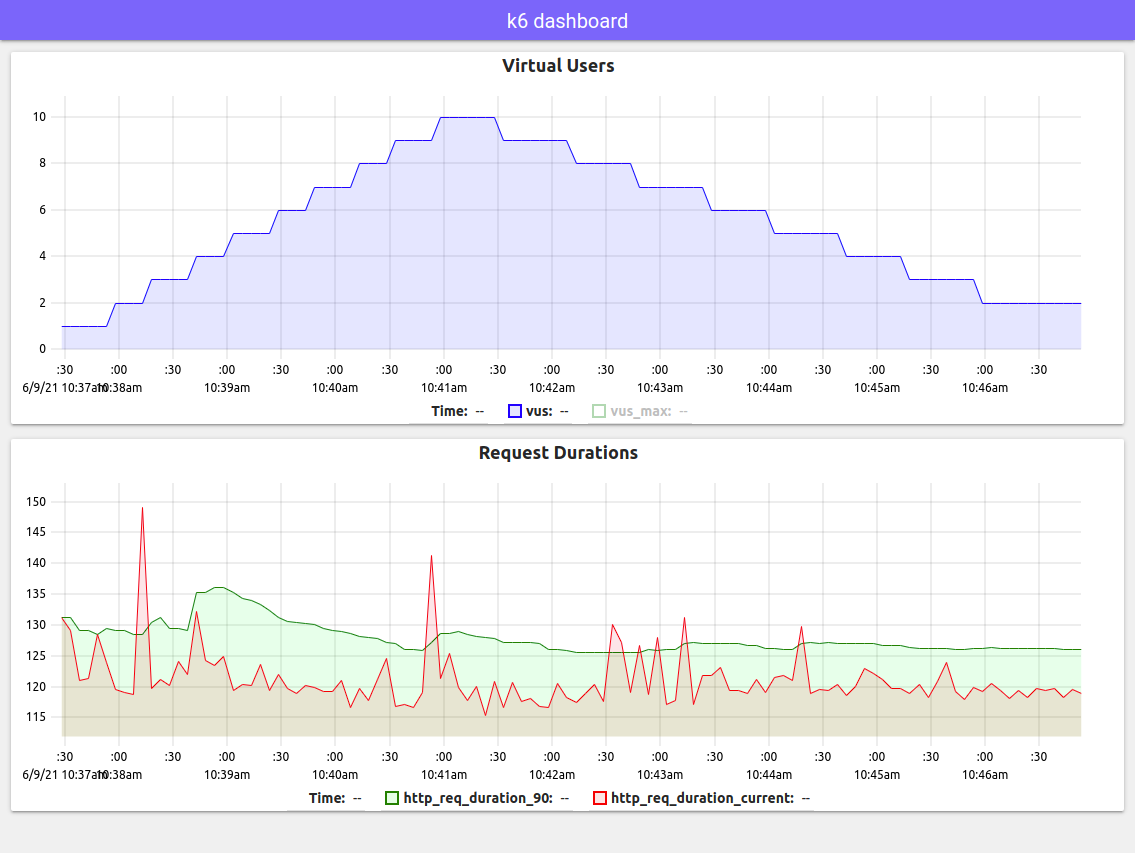
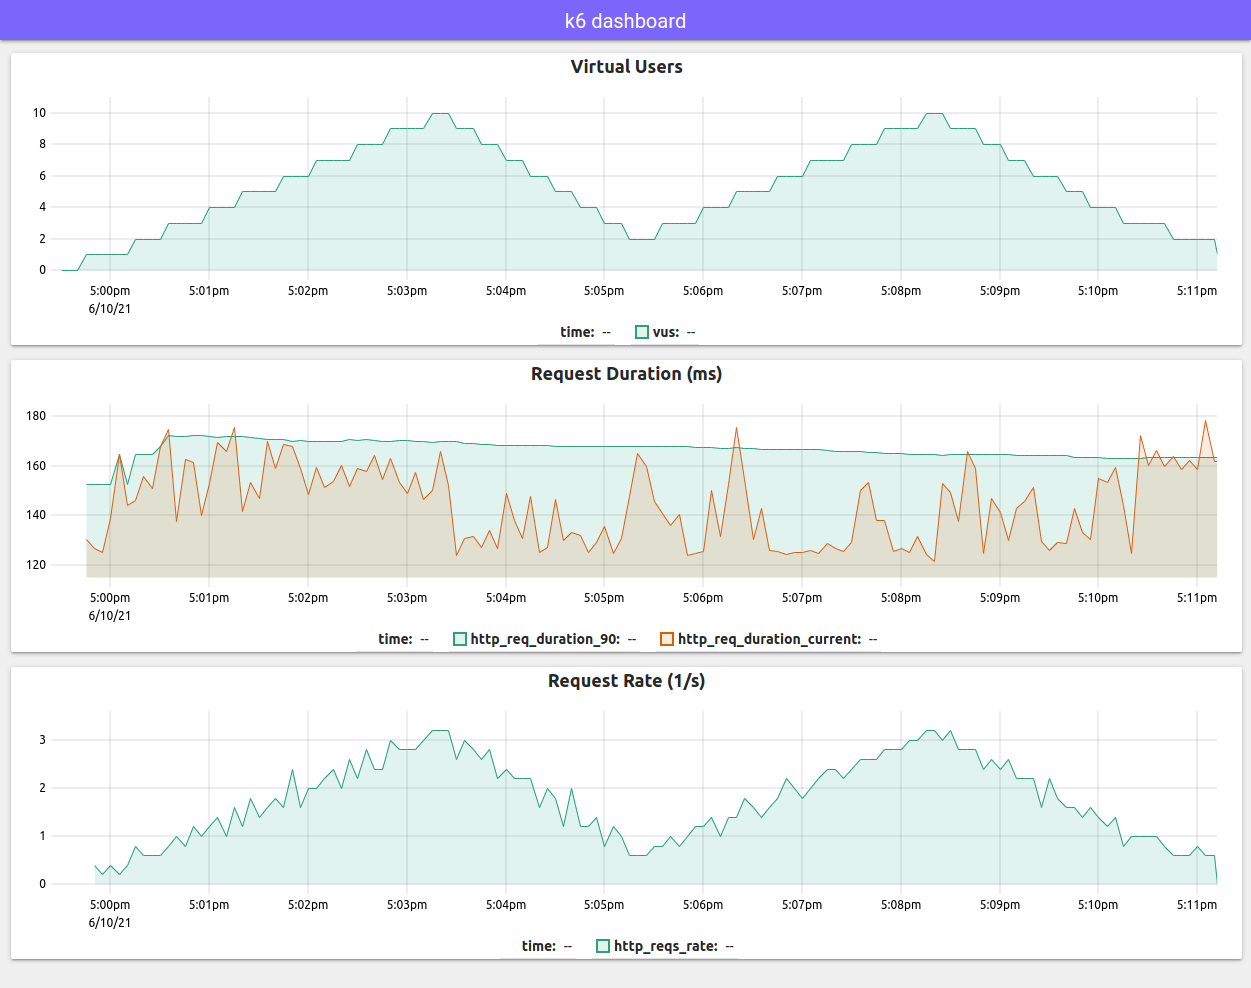
feat: added "request rate" to UI, clean up a bit the UI code

diff --git a/ui/main.js b/ui/main.js
@@ -1,93 +1,99 @@
-window.addEventListener("DOMContentLoaded", onInit);
+import uPlot from "https://cdn.jsdelivr.net/npm/uplot@1.6.12/dist/uPlot.esm.min.js";
+import { SampleSource } from "./index.js";
 
-class SampleSource {
-  constructor(location = "http://127.0.0.1:5665/events/sample", maxSampleNum = 1000) {
-    this.time = [];
-    this.sample = {};
-    this.maxSampleNum = maxSampleNum;
-    this.eventSource = new EventSource(location);
-    this.eventSource.onmessage = (event) => this.update(JSON.parse(event.data));
-  }
-
-  update(data) {
-    const now = Math.floor(Date.now() / 1000);
-
-    for (const key of Object.keys(data)) {
-      if (!this.sample[key]) {
-        this.sample[key] = new Array(this.time.length);
-      }
-      this.sample[key].push(data[key]);
-    }
-
-    this.time.push(now);
-
-    if (this.time.length > this.maxSampleNum) {
-      this.time.shift();
-      for (const key of Object.keys(this.sample)) {
-        this.sample[key].shift();
-      }
-    }
-
-    window.dispatchEvent(new CustomEvent("sample", { detail: this }));
-  }
-}
-
-function onInit() {
-  M.AutoInit();
+window.addEventListener("DOMContentLoaded", () => {
   const endpoint = new URLSearchParams(window.location.search).get("endpoint") || "http://127.0.0.1:5665/";
+  const src = new SampleSource(`${endpoint}events/sample`);
 
-  const sampleSource = new SampleSource(`${endpoint}events/sample`);
-  window.addEventListener("sample", vus);
-  window.addEventListener("sample", durations);
-}
+  src.addEventListener("sample", vus);
+  src.addEventListener("sample", duration);
+  src.addEventListener("sample", rate);
+});
 
-const chart = {};
+function rate({ target }) {
+  const self = rate;
 
-function durations({ detail: { time, sample } }) {
-  const vars = ["http_req_duration_90", "http_req_duration_current"];
-  if (!sample[vars[0]] || !sample[vars[1]]) {
+  const data = target.view("http_reqs");
+
+  if (!data) {
     return;
   }
-  const data = [time, sample[vars[0]], sample[vars[1]]];
-  if (chart.durations) {
-    chart.durations.setData(data);
+
+  const rps = [undefined];
+  data.series[1].label = "http_reqs_rate";
+  for (let i = 1; i < data.http_reqs.length; i++) {
+    if (typeof data.http_reqs[i] == "undefined" || typeof data.http_reqs[i - 1] == "undefined") {
+      continue;
+    }
+    rps[i] = Math.abs(data.http_reqs[i] - data.http_reqs[i - 1]) / (data.time[i] - data.time[i - 1]);
+  }
+  data[1] = rps;
+
+  if (self.chart) {
+    self.chart.setData(data);
     return;
   }
 
   let opts = {
-    title: "Request Durations",
-    id: "duration",
-    width: window.innerWidth - 40,
-    height: 320,
-    series: [
-      {},
-      { label: vars[0], stroke: "green", width: 1, fill: "rgba(0, 255, 0, 0.1)" },
-      { label: vars[1], stroke: "red", width: 1, fill: "rgba(255, 0, 0, 0.1)" },
-    ],
+    title: "Request Rate (1/s)",
+    class: "card",
+    id: self.name,
+    width: window.innerWidth - 20,
+    height: 240,
+    series: data.series,
   };
 
-  chart.durations = new uPlot(opts, data, document.querySelector("#durations"));
+  self.chart = new uPlot(opts, data, document.querySelector("#charts"));
 }
 
-function vus({ detail: { time, sample } }) {
-  const vars = ["vus", "vus_max"];
-  const data = [time, sample[vars[0]], sample[vars[1]]];
-  if (chart.vus) {
-    chart.vus.setData(data);
+function duration({ target }) {
+  const self = duration;
+
+  const data = target.view("http_req_duration_90", "http_req_duration_current");
+
+  if (!data) {
+    return;
+  }
+
+  if (self.chart) {
+    self.chart.setData(data);
+    return;
+  }
+
+  let opts = {
+    title: "Request Duration (ms)",
+    class: "card",
+    id: self.name,
+    width: window.innerWidth - 20,
+    height: 240,
+    series: data.series,
+  };
+
+  self.chart = new uPlot(opts, data, document.querySelector("#charts"));
+}
+
+function vus({ target }) {
+  const self = vus;
+
+  const data = target.view("vus");
+
+  if (!data) {
+    return;
+  }
+
+  if (self.chart) {
+    self.chart.setData(data);
     return;
   }
 
   let opts = {
     title: "Virtual Users",
-    id: "vus",
-    width: window.innerWidth - 40,
-    height: 320,
-    series: [
-      {},
-      { label: vars[0], stroke: "blue", width: 1, fill: "rgba(0, 0, 255, 0.1)" },
-      { label: vars[1], show: false, stroke: "green", width: 1 },
-    ],
+    class: "card",
+    id: self.name,
+    width: window.innerWidth - 20,
+    height: 240,
+    series: data.series,
   };
 
-  chart.vus = new uPlot(opts, data, document.querySelector("#vus"));
+  self.chart = new uPlot(opts, data, document.querySelector("#charts"));
 }

diff --git a/ui/index.js b/ui/index.js
@@ -1,0 +1,61 @@
+export const palette = ["#1b9e77", "#d95f02", "#7570b3", "#e7298a", "#66a61e", "#e6ab02", "#a6761d", "#666666"];
+
+export class SampleSource extends EventSource {
+  constructor(url, capacity = 1000) {
+    super(url);
+    this.capacity = capacity;
+    this.length = 0;
+    this.time = [];
+    this.sample = {};
+    this.addEventListener("message", (e) => this._onmessage(e));
+  }
+
+  view(...keys) {
+    if (Object.keys(this.sample).filter((k) => keys.includes(k)).length != keys.length) {
+      return undefined;
+    }
+
+    const all = [this.time];
+    const series = [{ label: "time" }];
+    Object.defineProperty(all, "time", { value: all[0] });
+    Object.defineProperty(all, "series", { value: series });
+
+    for (let i = 0; i < keys.length; i++) {
+      const key = keys[i];
+      all.push(this.sample[key]);
+      Object.defineProperty(all, key, { value: this.sample[key] });
+      series.push({
+        label: key,
+        fill: palette[i] + "20",
+        stroke: palette[i],
+      });
+    }
+
+    return all;
+  }
+
+  _onmessage(event) {
+    const data = JSON.parse(event.data);
+    const now = Math.floor(Date.now() / 1000);
+
+    for (const key of Object.keys(data)) {
+      if (!this.sample[key]) {
+        this.sample[key] = new Array(this.length);
+      }
+      this.sample[key].push(data[key]);
+    }
+
+    this.time.push(now);
+
+    this.length++;
+    if (this.length > this.capacity) {
+      this.time.shift();
+      for (const key of Object.keys(this.sample)) {
+        this.sample[key].shift();
+      }
+      this.length--;
+    }
+
+    this.dispatchEvent(new Event("sample"));
+  }
+}

diff --git a/ui/index.html b/ui/index.html
@@ -1,16 +1,13 @@
 <html>
   <head>
+    <title>k6 dashboard</title>
     <meta charset="UTF-8" />
     <meta name="viewport" content="width=device-width, initial-scale=1" />
-    <link rel="stylesheet" href="https://cdnjs.cloudflare.com/ajax/libs/materialize/1.0.0/css/materialize.min.css" />
-    <link rel="stylesheet" href="https://cdn.jsdelivr.net/npm/uplot@1.6.12/dist/uPlot.min.css" />
-    <link rel="stylesheet" href="style.css" />
     <script src="https://cdnjs.cloudflare.com/ajax/libs/materialize/1.0.0/js/materialize.min.js"></script>
-    <script src="https://cdn.jsdelivr.net/npm/uplot@1.6.12/dist/uPlot.iife.min.js"></script>
-    <script src="main.js"></script>
-    <title>k6 dashboard</title>
+    <link rel="stylesheet" href="style.css" />
+    <script src="main.js" type="module"></script>
   </head>
-  <body>
+  <body onload="M.AutoInit();">
     <div class="navbar-fixed">
       <nav>
         <div class="nav-wrapper">
@@ -20,10 +17,7 @@
     </div>
     <section>
       <div class="row">
-        <div class="col s12">
-          <div id="vus" class="card"></div>
-          <div id="durations" class="card"></div>
-        </div>
+        <div id="charts" class="col s12"></div>
       </div>
     </section>
   </body>

diff --git a/script.js b/script.js
@@ -10,7 +10,9 @@ export let options = {
       stages: [
         { duration: "1m", target: 2 },
         { duration: "3m", target: 10 },
-        { duration: "5m", target: 2 },
+        { duration: "2m", target: 2 },
+        { duration: "3m", target: 10 },
+        { duration: "2m", target: 3 },
         { duration: "1m", target: 1 },
       ],
       gracefulRampDown: "0s",

diff --git a/ui/style.css b/ui/style.css
@@ -1,3 +1,6 @@
+@import "https://cdnjs.cloudflare.com/ajax/libs/materialize/1.0.0/css/materialize.min.css";
+@import "https://cdn.jsdelivr.net/npm/uplot@1.6.12/dist/uPlot.min.css";
+
 nav .brand-logo {
   font-size: 20px;
   white-space: nowrap;
